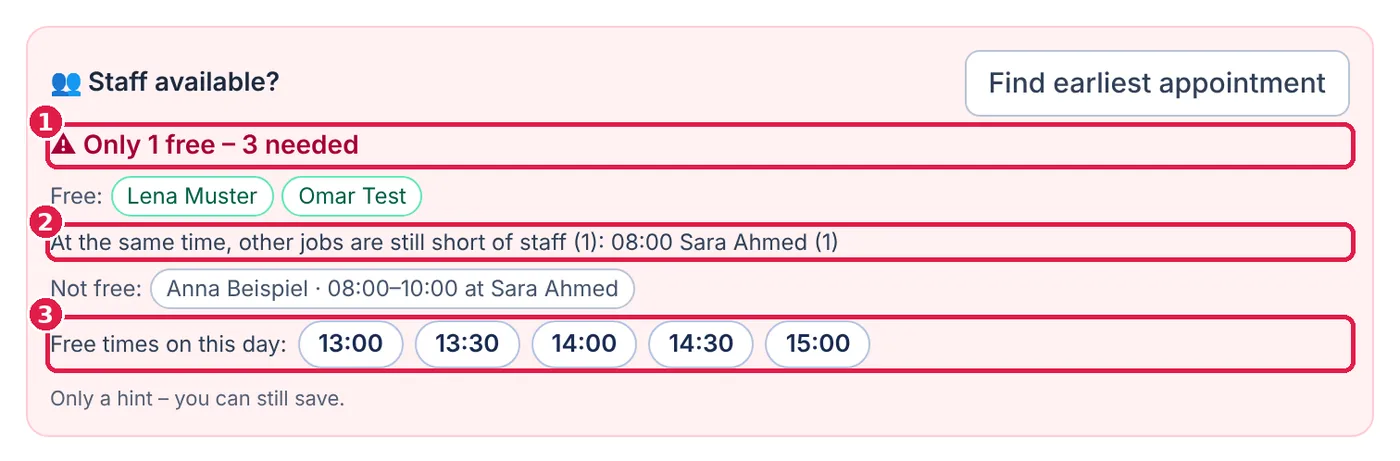
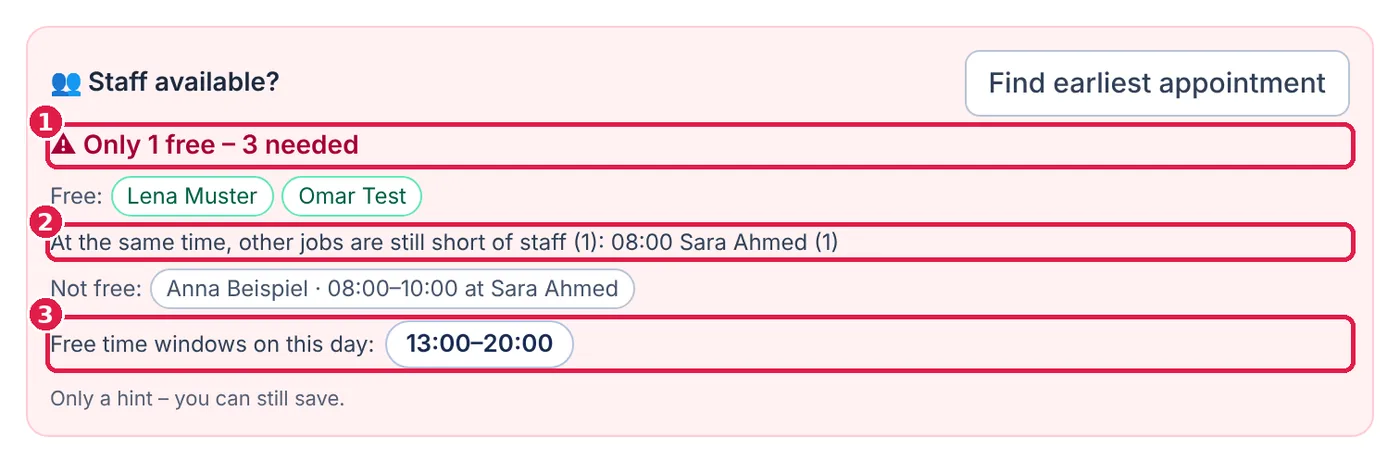
Add files via upload

diff --git a/components/TourenView.jsx b/components/TourenView.jsx
@@ -1045,7 +1045,7 @@ function SeriesSection({ org, data, customer, onChanged }) {
 // wann ist der früheste Termin?“. Nur ein Hinweis – gespeichert werden kann trotzdem.
 // Zählt: abwesend, schon eingeteilt (gleiche Zeit), Kunde „bitte nicht“, nötige Fähigkeiten (fürs Team) und
 // Plätze anderer Aufträge zur selben Zeit, die noch ohne Personal sind (die brauchen ja auch jemanden).
-const AV_STEP = 30, AV_DAYS = 21;
+const AV_DAYS = 21;
 // Arbeitszeit der Firma (Einstellungen → Arbeitszeiten, SQL 66); ohne Angabe 07:00–20:00, alle Tage
 const workOf = (st) => { const a = toMin(hhmm((st && st.work_from) || "07:00")), b = toMin(hhmm((st && st.work_to) || "20:00")); const days = st && Array.isArray(st.work_days) && st.work_days.length ? st.work_days.map(Number) : [0, 1, 2, 3, 4, 5, 6]; return b > a ? { from: a, to: b, days } : { from: 420, to: 1200, days }; };
 const clockOf = (m) => `${pad(Math.floor(m / 60))}:${pad(m % 60)}`;
@@ -1072,6 +1072,18 @@ function availAt(day, startMin, dur, needed, required, custId, jobId, prefs) {
   const have = new Set(free.flatMap((p) => p.skills || []));
   const missing = required.filter((k) => !have.has(k));
   return { free, blocked, open, openJobs, avail, missing, ok: avail >= needed && !missing.length };
+}
+
+// Freie Zeitfenster eines Tages: alle Beginn-Zeiten im 5-Minuten-Raster prüfen (so passen auch 12:30 oder 18:05);
+// zusammenhängende Beginn-Zeiten = ein Fenster „von – bis“, in das der ganze Auftrag passt.
+function freeWindows(day, from, to, dur, needed, required, custId, jobId, prefs, minStart = -1) {
+  const out = []; let a = null, last = null;
+  for (let m = from; m + dur <= to; m += 5) {
+    const ok = m >= minStart && availAt(day, m, dur, needed, required, custId, jobId, prefs).ok;
+    if (ok) { if (a === null) a = m; last = m; } else if (a !== null) { out.push({ s: a, e: last + dur }); a = null; }
+  }
+  if (a !== null) out.push({ s: a, e: last + dur });
+  return out;
 }
 
 function AvailabilityBox({ org, data, jobId, custId, date, start, duration, needed, svc, rep, onPick }) {
@@ -1107,11 +1119,9 @@ function AvailabilityBox({ org, data, jobId, custId, date, start, duration, need
   // freie Zeiten an diesem Tag
   const slots = useMemo(() => {
     if (!day || day.date !== date || !cur || cur.ok) return [];
-    const out = []; const today = orgToday(); const nowM = date === today ? toMin(tsHm(new Date())) + 30 : -1;
-    for (let m = AV_FROM; m + dur <= AV_TO; m += AV_STEP) if (m >= nowM && availAt(day, m, dur, needed, required, custId, jobId, data.prefs).ok) out.push(m);
-    const want = toMin(start);
-    return out.sort((a, b) => Math.abs(a - want) - Math.abs(b - want)).slice(0, 5).sort((a, b) => a - b);
-  }, [day, date, cur && cur.ok, dur, needed, required, custId, jobId, data.prefs, start, AV_FROM, AV_TO]); // eslint-disable-line react-hooks/exhaustive-deps
+    const nowM = date === orgToday() ? toMin(tsHm(new Date())) + 30 : -1;
+    return freeWindows(day, AV_FROM, AV_TO, dur, needed, required, custId, jobId, data.prefs, nowM);
+  }, [day, date, cur && cur.ok, dur, needed, required, custId, jobId, data.prefs, AV_FROM, AV_TO]); // eslint-disable-line react-hooks/exhaustive-deps
   // Wiederholung: die nächsten Termine mitprüfen
   const repKey = rep && rep.mode !== "none" && okTime && date ? JSON.stringify([rep.mode, rep.days, rep.untilOn, rep.until, date, start, dur, needed, required, custId]) : "";
   useEffect(() => {
@@ -1140,10 +1150,8 @@ function AvailabilityBox({ org, data, jobId, custId, date, start, duration, need
         const vs = await Promise.all(ds.map((d) => loadDay(d)));
         ds.forEach((d, k) => {
           if (found.length >= 3) return;
-          for (let m = AV_FROM; m + dur <= AV_TO; m += AV_STEP) {
-            if (d === today && m < nowM) continue;
-            if (availAt({ date: d, ...vs[k] }, m, dur, needed, required, custId, jobId, data.prefs).ok) { found.push({ date: d, time: clockOf(m) }); break; }
-          }
+          const wins = freeWindows({ date: d, ...vs[k] }, AV_FROM, AV_TO, dur, needed, required, custId, jobId, data.prefs, d === today ? nowM : -1);
+          if (wins.length) found.push({ date: d, wins });
         });
       }
       setEarly(found);
@@ -1177,8 +1185,8 @@ function AvailabilityBox({ org, data, jobId, custId, date, start, duration, need
           {cur.blocked.length > 0 && <div className="flex flex-wrap items-center gap-1"><span className="text-xs text-slate-600">{tx("Nicht frei:")}</span>{cur.blocked.map((r) => <span key={r.staff.id} className={`${chip} border-slate-300 bg-white text-slate-600`}>{r.staff.name} · {why(r)}</span>)}</div>}
           {cur.missing.length > 0 && <div className="text-xs font-medium text-rose-800">{tx("Fähigkeit fehlt im Team: {0}", cur.missing.map(skillName).join(", "))}</div>}
           {!cur.ok && (slots.length ? (
-            <div className="flex flex-wrap items-center gap-1.5 pt-0.5"><span className="text-xs text-slate-700">{tx("Freie Zeiten an diesem Tag:")}</span>
-              {slots.map((m) => <button key={m} type="button" className="rounded-full border border-teal-600 bg-white px-2.5 py-0.5 text-xs font-semibold text-teal-800 hover:bg-teal-50" onClick={() => onPick(date, clockOf(m))}>{clockOf(m)}</button>)}</div>
+            <div className="flex flex-wrap items-center gap-1.5 pt-0.5"><span className="text-xs text-slate-700">{tx("Freie Zeitfenster an diesem Tag:")}</span>
+              {slots.map((w) => <button key={w.s} type="button" title={tx("Beginn zwischen {0} und {1}", clockOf(w.s), clockOf(w.e - dur))} className="rounded-full border border-teal-600 bg-white px-2.5 py-0.5 text-xs font-semibold text-teal-800 hover:bg-teal-50" onClick={() => onPick(date, clockOf(w.s))}>{clockOf(w.s)}–{clockOf(w.e)}</button>)}</div>
           ) : <div className="text-xs text-slate-700">{tx("An diesem Tag ist zwischen {0} und {1} keine Zeit mit genug freiem Personal.", clockOf(AV_FROM), clockOf(AV_TO))}</div>)}
           {repInfo && repInfo.length > 0 && (repInfo.every((x) => x.ok)
             ? <div className="text-xs text-emerald-800">{tx("Wiederholung: die nächsten {0} Termine sind auch frei ✓", repInfo.length)}</div>
@@ -1188,8 +1196,11 @@ function AvailabilityBox({ org, data, jobId, custId, date, start, duration, need
       {Array.isArray(early) && (
         <div className="mt-2 rounded-lg border border-teal-200 bg-white p-2 text-sm">
           {early.length ? (<>
-            <div className="text-xs text-slate-600">{tx("Früheste Termine mit {0} freien Personen ({1}–{2} Uhr):", needed, clockOf(AV_FROM), clockOf(AV_TO))}</div>
-            <div className="mt-1 flex flex-wrap gap-1.5">{early.map((x) => <button key={x.date} type="button" className="rounded-full border border-teal-600 bg-teal-600 px-3 py-1 text-xs font-semibold text-white hover:bg-teal-700" onClick={() => onPick(x.date, x.time)}>{dayLbl(x.date)} · {x.time}</button>)}</div>
+            <div className="text-xs text-slate-600">{tx("Früheste freie Zeitfenster mit {0} Personen ({1}–{2} Uhr):", needed, clockOf(AV_FROM), clockOf(AV_TO))}</div>
+            <div className="mt-1 space-y-1">{early.map((x) => (
+              <div key={x.date} className="flex flex-wrap items-center gap-1.5"><span className="w-20 shrink-0 text-xs font-semibold text-slate-700">{dayLbl(x.date)}</span>
+                {x.wins.map((w) => <button key={w.s} type="button" title={tx("Beginn zwischen {0} und {1}", clockOf(w.s), clockOf(w.e - dur))} className="rounded-full border border-teal-600 bg-teal-600 px-3 py-1 text-xs font-semibold text-white hover:bg-teal-700" onClick={() => onPick(x.date, clockOf(w.s))}>{clockOf(w.s)}–{clockOf(w.e)}</button>)}</div>))}</div>
+            <div className="mt-1 text-[11px] text-slate-500">{tx("Der ganze Auftrag passt in das Fenster. Antippen = Beginn am Anfang; die Uhrzeit können Sie danach im Fenster verschieben.")}</div>
           </>) : <div className="text-xs text-slate-700">{tx("In den nächsten {0} Tagen gibt es keinen Termin mit genug freiem Personal.", AV_DAYS)}</div>}
         </div>
       )}

diff --git a/components/TourenGuide.jsx b/components/TourenGuide.jsx
@@ -332,7 +332,7 @@ export default function TourenGuide() {
             <ol>
               <li>How many people are free compared to how many are needed. Below: who is free, and who is not free and why (other job, absent, “please not” for this customer).</li>
               <li>Other jobs at the same time that do not have staff yet are counted too – they need people as well.</li>
-              <li><b>Free times on this day</b> – tap a time to take it over as the start time.</li>
+              <li><b>Free time windows on this day</b> – e.g. “12:30–14:30”: the whole job fits into this window. Tap it to start at the beginning; you can then move the start time within the window.</li>
             </ol>
             <div className="tg-note">It is only a hint – you can still save. Absences count only if they are entered in Dienstigo (Requests or <b>Report absence</b>). Travel time between two jobs is not counted here; you see “tight” when you assign staff.</div>
           </Step>
@@ -341,7 +341,7 @@ export default function TourenGuide() {
             <Shot src="4b-earliest" alt="Find earliest appointment" />
             <ol>
               <li>Press <b>Find earliest appointment</b>. Dienstigo searches the next 3 weeks with the details you entered (duration, staff, services, customer) – only on working days and within your working hours (1.3).</li>
-              <li>The first 3 days with enough free staff appear, each with the earliest time. Tap one – date and time are filled in.</li>
+              <li>The first 3 days with enough free staff appear, each with all its free time windows (e.g. “07:00–20:00”). Tap a window – date and start time are filled in. Every start time within the window works.</li>
             </ol>
             <p>For a repeating job, the next appointments are checked too. You see a warning if one of them is short of staff.</p>
           </Step>

diff --git a/lib/i18n-en.js b/lib/i18n-en.js
@@ -2184,11 +2184,13 @@ export const EN = {
  "Nicht frei:": "Not free:",
  "{0}–{1} bei {2}": "{0}–{1} at {2}",
  "Fähigkeit fehlt im Team: {0}": "Skill missing in the team: {0}",
- "Freie Zeiten an diesem Tag:": "Free times on this day:",
+ "Freie Zeitfenster an diesem Tag:": "Free time windows on this day:",
  "An diesem Tag ist zwischen {0} und {1} keine Zeit mit genug freiem Personal.": "On this day there is no time between {0} and {1} with enough free staff.",
  "Wiederholung: die nächsten {0} Termine sind auch frei ✓": "Repeat: the next {0} appointments are free too ✓",
  "Wiederholung: zu wenig Personal am {0}": "Repeat: not enough staff on {0}",
- "Früheste Termine mit {0} freien Personen ({1}–{2} Uhr):": "Earliest appointments with {0} free people ({1}–{2}):",
+ "Früheste freie Zeitfenster mit {0} Personen ({1}–{2} Uhr):": "Earliest free time windows with {0} people ({1}–{2}):",
+ "Beginn zwischen {0} und {1}": "Start between {0} and {1}",
+ "Der ganze Auftrag passt in das Fenster. Antippen = Beginn am Anfang; die Uhrzeit können Sie danach im Fenster verschieben.": "The whole job fits into the window. Tap = start at the beginning; you can then move the time within the window.",
  "In den nächsten {0} Tagen gibt es keinen Termin mit genug freiem Personal.": "In the next {0} days there is no appointment with enough free staff.",
  "Nur ein Hinweis – speichern geht trotzdem.": "Only a hint – you can still save.",
  "Außerhalb der Arbeitszeit der Firma ({0}–{1}, {2}).": "Outside the company's working hours ({0}–{1}, {2}).",

diff --git a/docs/PROJEKT-ZUSAMMENFASSUNG.md b/docs/PROJEKT-ZUSAMMENFASSUNG.md
@@ -570,3 +570,5 @@
 - **«Verschieben …» برای غیبت (۲۷.۱۱، خواست کاربر: مثل Fortsetzung – اگر بعد از پلان کسی مریض شد و جایگزین نبود: اول با مشتری هماهنگ، بعد تأیید) ✅.** در «Bitte prüfen» کنار هر «abwesend – Ersatz nötig» دکمهٔ «Verschieben …» (کنار «Ersatz finden»). `MoveDialog` در `TourenView.jsx`: ① Neuen Termin suchen (تاریخ/ساعت + همان `AvailabilityBox` با jobId همین کار، «Frühesten Termin finden»)، ② Mit dem Kunden klären (متن آماده DE/EN «leider fällt am … unser Personal aus. Passt es Ihnen stattdessen am … um …?»، قابل ویرایش، WhatsApp و Anrufen)، ③ «Speichern (noch offen)» = `needs_confirm=true` + `extra.moved_from={date,time}` (کارمندها نمیبینند؛ در «Bitte prüfen» با «verschoben – Kunde muss noch zustimmen» و دکمهٔ «Klären») یا «✓ Kunde hat zugestimmt» = needs_confirm=false، moved_from پاک، هر کس از تیم که در روز جدید abwesend است از job_staff حذف میشود و اگر نفر کم شد AssignPanel باز میشود. کارهای needs_confirm بدون parent_job_id (در لیست و تقویم) MoveDialog را باز میکنند، با parent همان ContinuationDialog. دیتابیس تغییری نکرد (needs_confirm از ۵۷ و extra موجود). تست harness ✓.
 
 - **راهنما و سایت بهروز (۲۷.۱۱، خواست کاربر: «در کتابچه و انوایزونگها و گاید هم بنویس») ✅.** راهنمای `/touren/guide`: فصل تازهٔ **4 · Daily work** – 4.1 Staff available? (عکس `4a-avail`)، 4.2 Find earliest appointment (`4b-earliest`)، 4.3 Someone is sick (Report absence → Please check: Move … / Find replacement / Replacement for all days، `4c-check`)، 4.4 Move an appointment با مشتری (`4d-move`)، 4.5 منتظر جواب مشتری / Clarify (`4e-open`)، 4.6 کار تمامنشده = Fortsetzung؛ کارت چهارم در hero، لینک در نوار بالا و یک خط در Checklist. عکسها با `/home/claude/guide/cap4.py` (harness `?absent=1`: کار j90 روز ۳۰.۱۱ + غیبت Anna). PDF ۱۹ صفحه. صفحهٔ محصول Touren/Dispatcher (`Products.jsx`، DE/EN): سه نکتهٔ تازه «Personal verfügbar?» / «Verschieben mit dem Kunden» / «Ihre Arbeitszeiten» (حالا ۱۲ نکته، ۴ ردیف کامل).
+
+- **Zeitfenster بهجای ساعتهای تکی (۲۷.۱۱، سؤال کاربر: «زودترین وقت یکشنبه ۷:۰۰ داد؛ ساعت ۸ یکشنبه چه؟» و «۱۸:۰۵ پیدا نمیشد») ✅.** تابع `freeWindows` در `TourenView.jsx`: هر روز همهٔ ساعتهای شروع با گام **۵ دقیقه** (پس پایان کارهای دیگر مثل 12:30 یا 18:05 هم پیدا میشود) بین work_from و work_to؛ ساعتهای پشت سر هم = یک پنجره «s–e» (e = آخرین شروع + مدت). «Freie Zeitfenster an diesem Tag» (وقتی کمبود است) و «Frühesten Termin finden» (۳ روز اول، هر روز با همهٔ پنجرهها)؛ کلیک = تاریخ + شروع پنجره، tooltip «Beginn zwischen … und …». راهنما 4.1/4.2 و عکسهای 4a/4b بهروز. توضیح حالت ۲۸.۱۱ کاربر: ۴ نفر، me3test abwesend، کارها 08:30–12:30 و 14:05–18:05 با me2test در هر دو → هیچ ۲ ساعتی با ۲ نفر آزاد نبود (درست).
